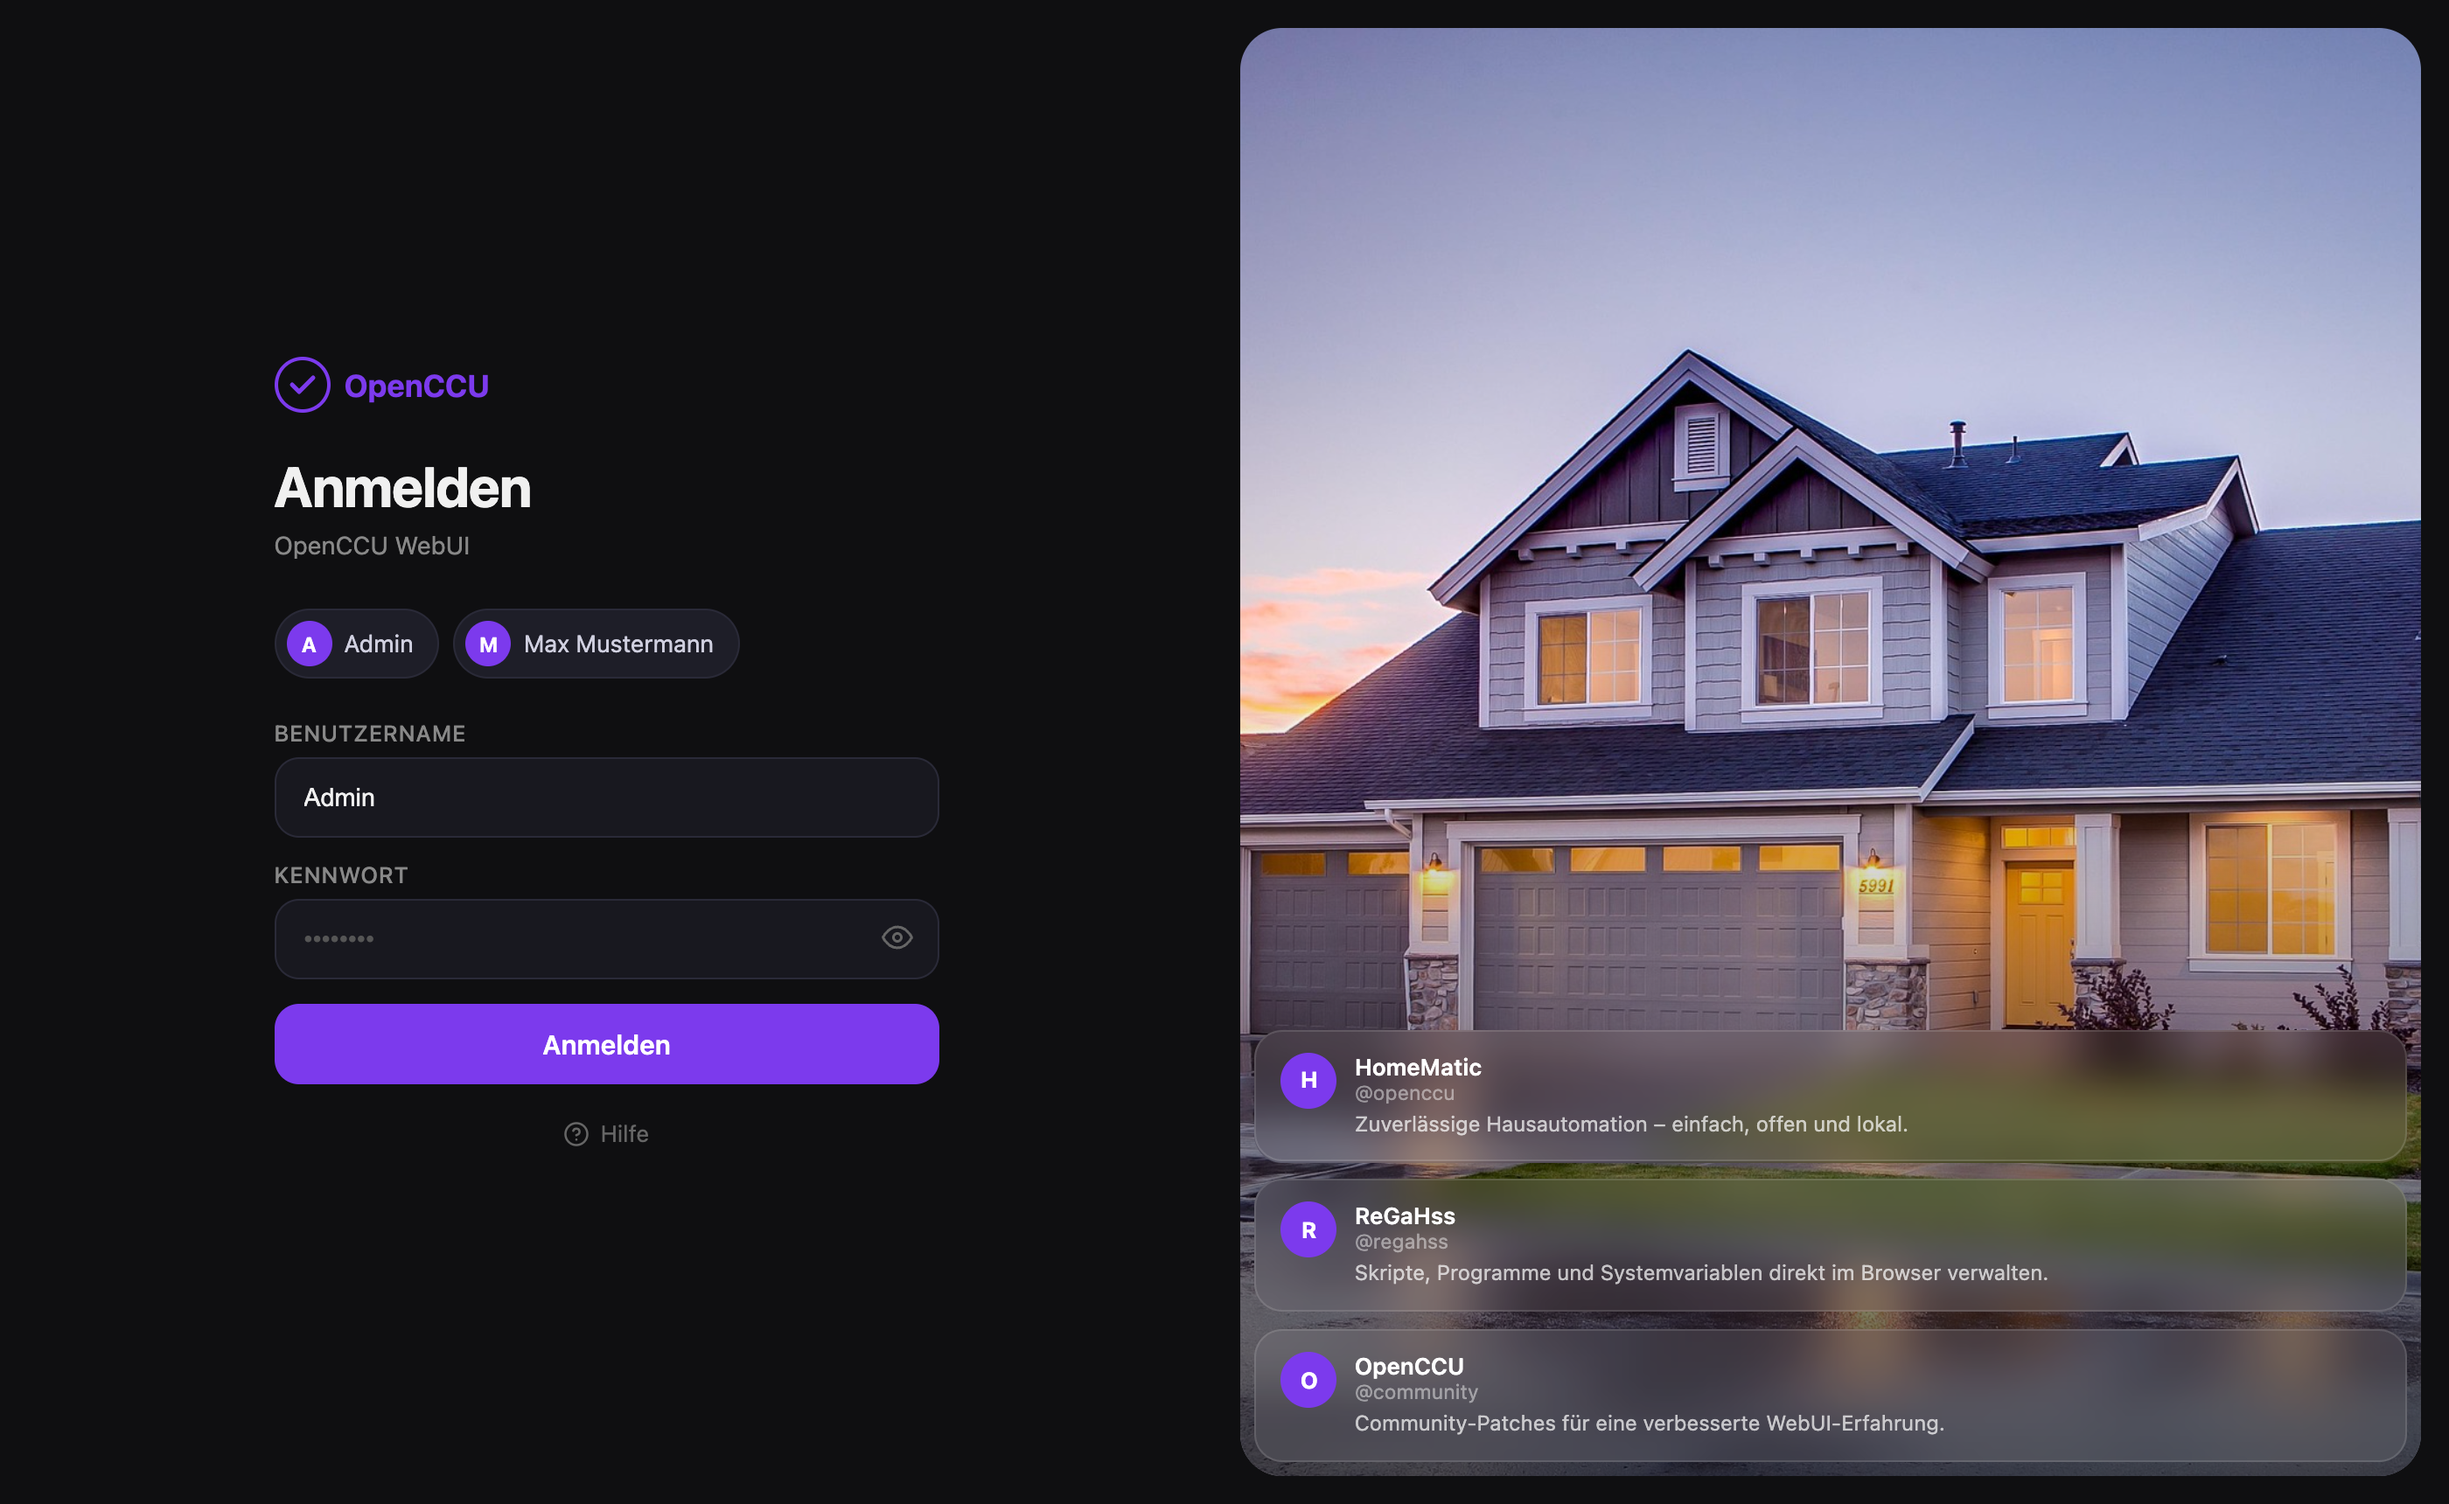
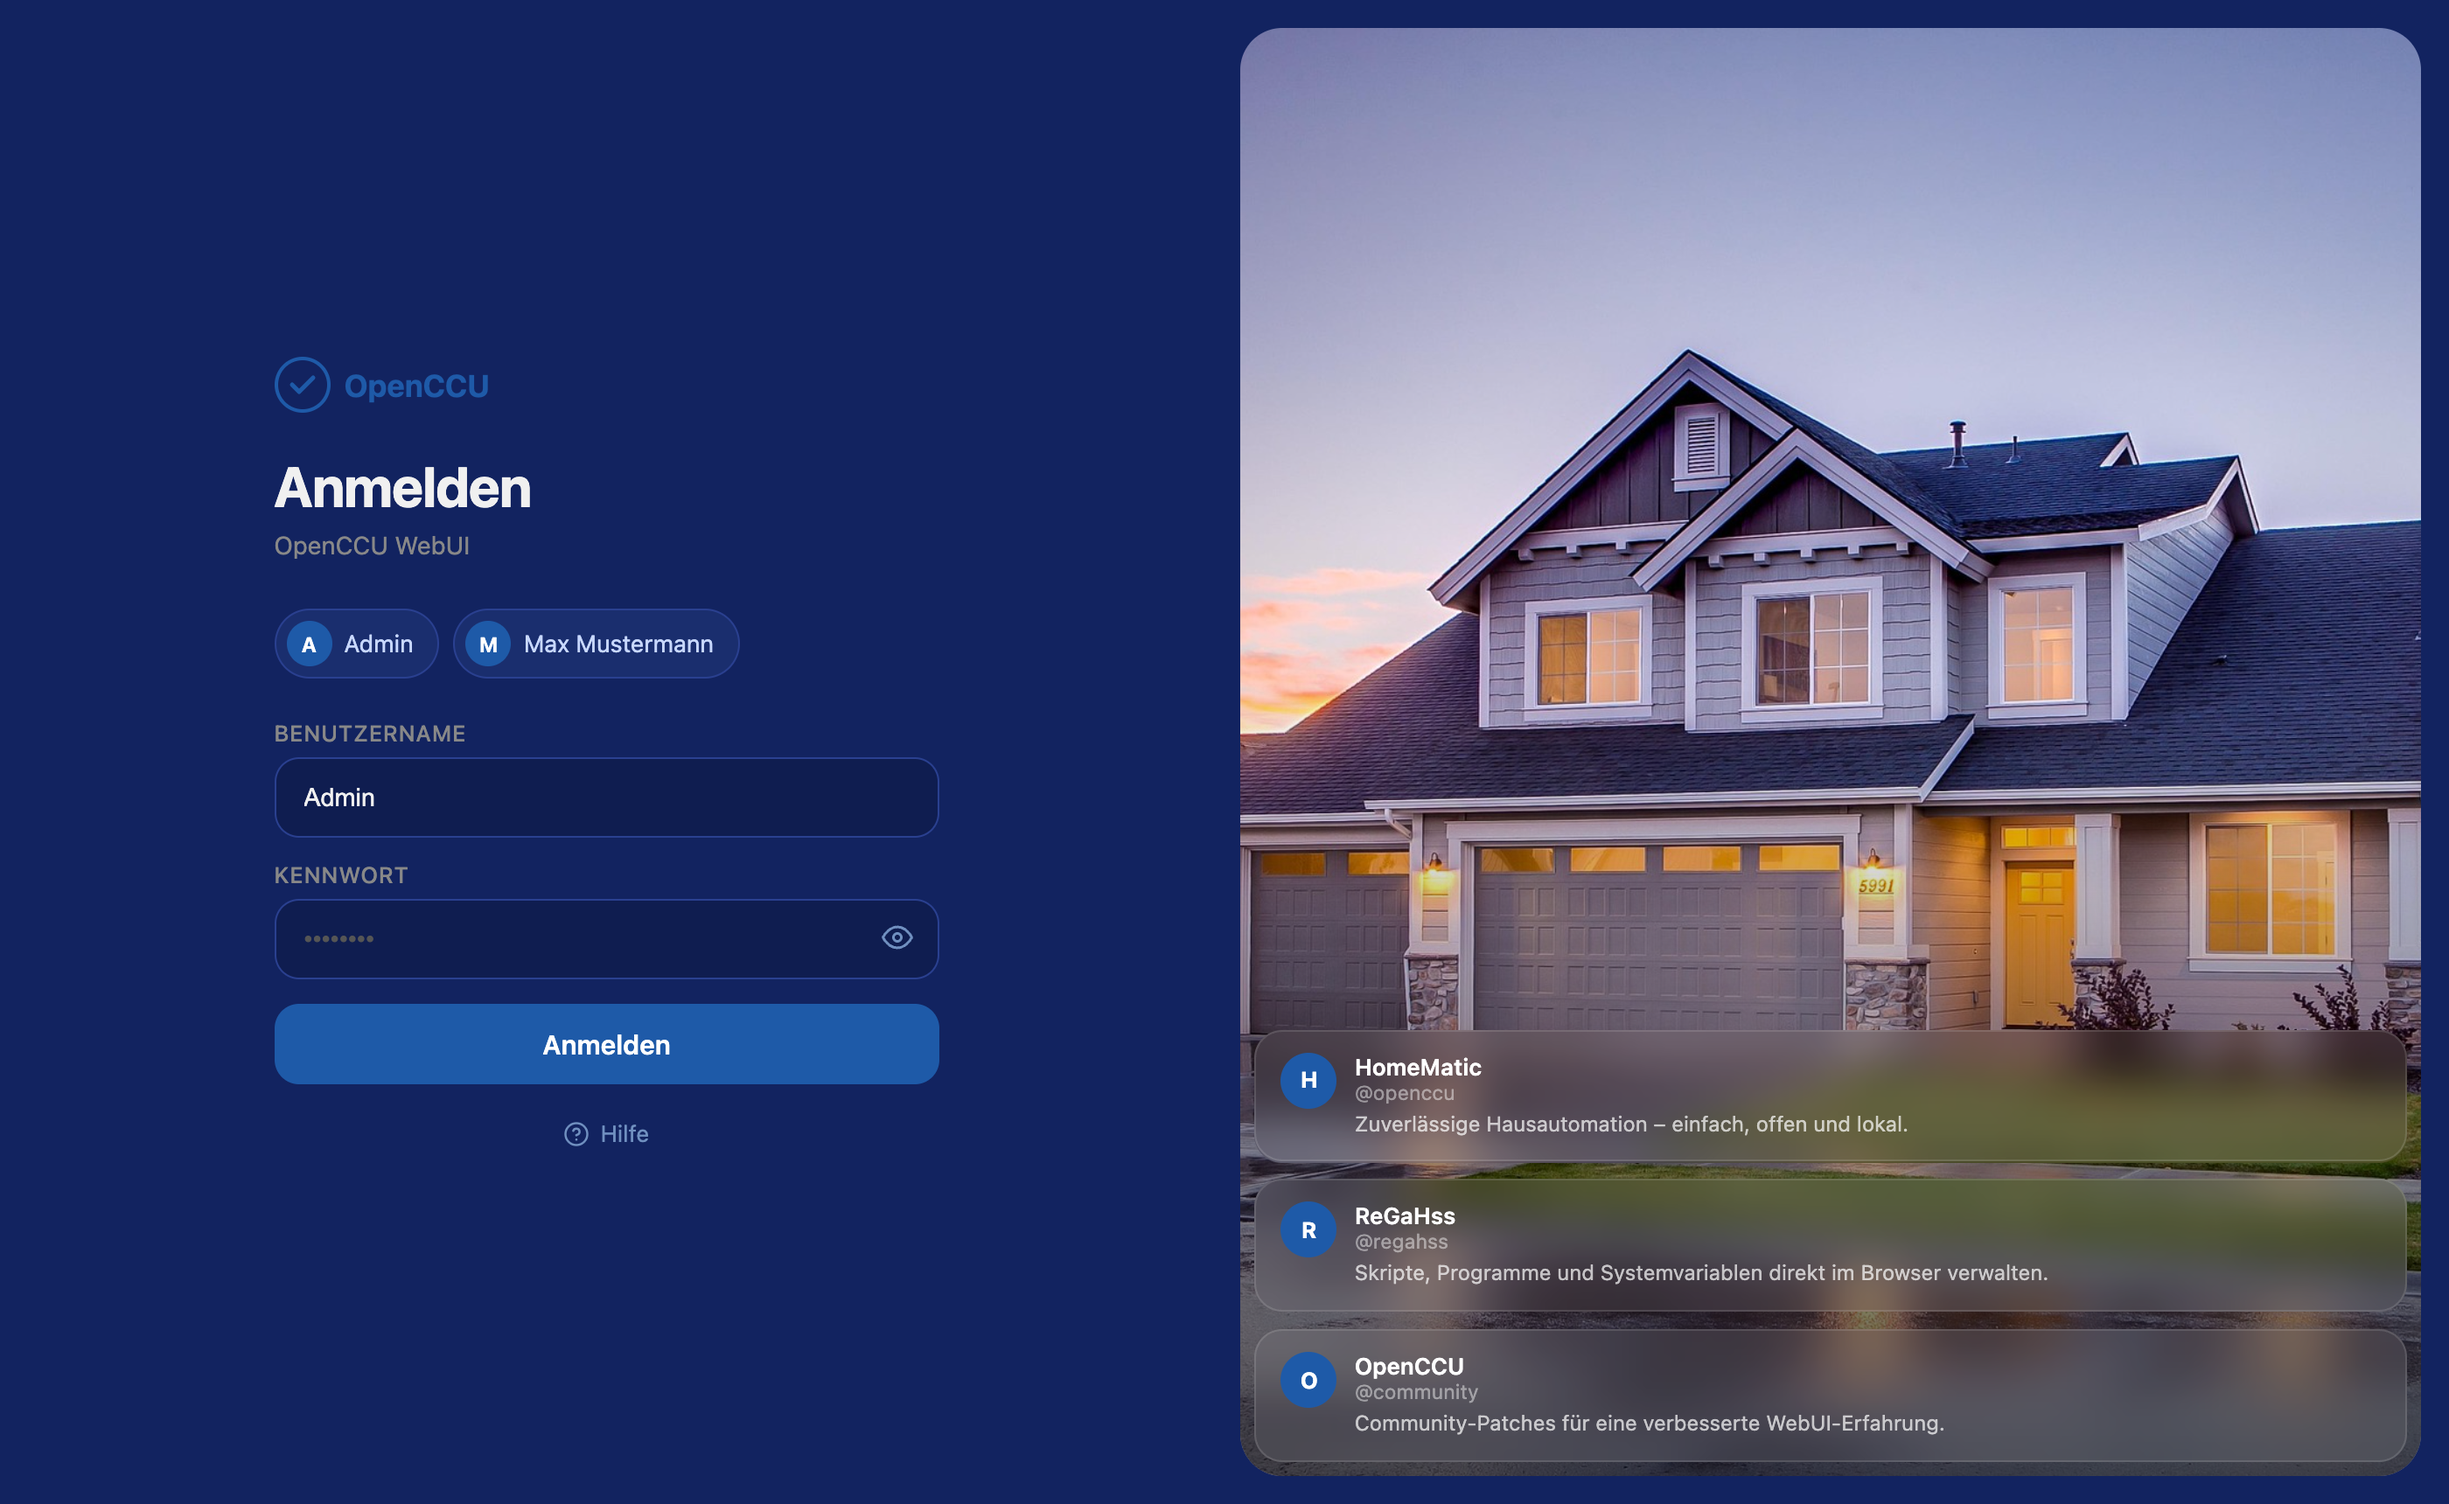
WebUI: Final round of PR review fixes for ModernLoginPage
- Adapt color scheme to match WebUI blue (#183473 family) instead of violet
- Fix duplicate-property CSS lint: move dvh/dvw into @supports block
- Full HTML escaping for user names (& < > " ') in pill generation
- Replace help <span> with <button type=button> for keyboard a11y
- translateAttribute calls for placeholder (#UserNameShow) and aria-label (.pw-toggle)
- UserButtonClick now sets both UserNameShow and hidden UserName (real username)
- FormSubmit preserves UserName set by pill click instead of overwriting
- Screenshots updated to reflect final blue color scheme

diff --git a/buildroot-external/patches/occu/0207-WebUI-ModernLoginPage/occu/WebUI/www/rega/login.css b/buildroot-external/patches/occu/0207-WebUI-ModernLoginPage/occu/WebUI/www/rega/login.css
@@ -4,7 +4,7 @@
 html, body {
   height: 100%;
   font-family: -apple-system, BlinkMacSystemFont, 'Segoe UI', Roboto, Helvetica, Arial, sans-serif;
-  background: #0f0f11;
+  background: #122360;
   color: #f0f0f0;
 }
 
@@ -14,9 +14,15 @@ html, body {
   flex-direction: row;
   height: 100vh;
   width: 100vw;
-  height: 100dvh;
-  width: 100dvw;
   overflow: hidden;
+}
+
+/* Moderne Viewport-Einheiten als Progressive Enhancement */
+@supports (height: 100dvh) {
+  #maintable {
+    height: 100dvh;
+    width: 100dvw;
+  }
 }
 
 /* ── Left panel (form) ──────────────────────────────────── */
@@ -24,9 +30,10 @@ html, body {
   flex: 1 1 0;
   display: flex;
   flex-direction: column;
-  align-items: center;
   justify-content: center;
-  padding: 40px 32px;
+  align-items: center;
+  padding: 48px 40px;
+  background: #122360;
   overflow-y: auto;
   min-width: 0;
 }
@@ -76,36 +83,35 @@ html, body {
 .user-pill {
   display: inline-flex;
   align-items: center;
-  gap: 6px;
-  padding: 6px 14px;
+  gap: 7px;
+  padding: 6px 14px 6px 6px;
   border-radius: 999px;
-  border: 1px solid rgba(255,255,255,0.12);
-  background: rgba(255,255,255,0.05);
-  color: #d0d0d0;
-  font-size: 0.82rem;
-  font-weight: 500;
+  background: #1a2e6e;
+  border: 1px solid #2a4090;
+  color: #c8d8ff;
+  font-size: 0.85rem;
   cursor: pointer;
-  transition: background 0.15s, border-color 0.15s, color 0.15s;
-  white-space: nowrap;
+  transition: background 0.15s, border-color 0.15s;
+  font-family: inherit;
 }
 
 .user-pill:hover {
-  background: rgba(139,92,246,0.18);
-  border-color: rgba(139,92,246,0.5);
+  background: #1e3880;
+  border-color: #4a90d9;
   color: #fff;
 }
 
 .user-pill-avatar {
-  width: 22px;
-  height: 22px;
+  width: 26px;
+  height: 26px;
   border-radius: 50%;
-  background: linear-gradient(135deg, #7c3aed, #4f46e5);
+  background: #1e5aa8;
+  color: #fff;
+  font-size: 0.75rem;
+  font-weight: 700;
   display: flex;
   align-items: center;
   justify-content: center;
-  font-size: 0.65rem;
-  font-weight: 700;
-  color: #fff;
   flex-shrink: 0;
 }
 
@@ -121,16 +127,15 @@ html, body {
 
 /* Glass input wrapper */
 .glass-input {
+  background: #0f1d50;
+  border: 1px solid #2a4090;
   border-radius: 14px;
-  border: 1px solid rgba(255,255,255,0.1);
-  background: rgba(255,255,255,0.04);
-  transition: border-color 0.2s, background 0.2s;
-  position: relative;
+  transition: border-color 0.18s;
 }
 
 .glass-input:focus-within {
-  border-color: rgba(139,92,246,0.6);
-  background: rgba(139,92,246,0.07);
+  border-color: #4a90d9;
+  box-shadow: 0 0 0 3px rgba(74,144,217,0.22);
 }
 
 .glass-input input {
@@ -170,7 +175,7 @@ html, body {
   flex-shrink: 0;
 }
 
-.pw-toggle:hover { color: #bbb; }
+.pw-toggle:hover { color: #4a90d9; }
 
 .pw-toggle svg { display: block; width: 18px; height: 18px; }
 
@@ -192,7 +197,7 @@ html, body {
   width: 100%;
   padding: 14px;
   border-radius: 14px;
-  background: #7c3aed;
+  background: #1e5aa8;
   color: #fff;
   font-size: 0.95rem;
   font-weight: 600;
@@ -205,8 +210,8 @@ html, body {
   user-select: none;
 }
 
-#btnLogin:hover { background: #6d28d9; }
-#btnLogin:active { background: #5b21b6; transform: scale(0.98); }
+#btnLogin:hover { background: #2468c0; }
+#btnLogin:active { background: #183473; transform: scale(0.98); }
 
 /* Help link */
 .help-row {
@@ -218,14 +223,18 @@ html, body {
   display: inline-flex;
   align-items: center;
   gap: 6px;
-  font-size: 0.8rem;
-  color: #555;
+  font-size: 0.82rem;
+  color: #7090c0;
   cursor: pointer;
   transition: color 0.15s;
+  background: none;
+  border: none;
+  font-family: inherit;
+  padding: 0;
   text-decoration: none;
 }
 
-.help-link:hover { color: #bbb; }
+.help-link:hover { color: #4a90d9; }
 
 .help-link svg { width: 15px; height: 15px; }
 
@@ -281,16 +290,16 @@ html, body {
 }
 
 .testimonial-avatar {
-  width: 36px;
-  height: 36px;
-  border-radius: 10px;
-  background: linear-gradient(135deg, #7c3aed, #4f46e5);
+  width: 32px;
+  height: 32px;
+  border-radius: 50%;
+  background: #1e5aa8;
+  color: #fff;
+  font-size: 0.8rem;
+  font-weight: 700;
   display: flex;
   align-items: center;
   justify-content: center;
-  font-size: 0.8rem;
-  font-weight: 700;
-  color: #fff;
   flex-shrink: 0;
 }
 

diff --git a/buildroot-external/patches/occu/0207-WebUI-ModernLoginPage/occu/WebUI/www/rega/login.htm b/buildroot-external/patches/occu/0207-WebUI-ModernLoginPage/occu/WebUI/www/rega/login.htm
@@ -53,9 +53,12 @@
                     string sUserFullName = uObj.UserFirstName()#' '#uObj.UserLastName();
                     if( sUserFullName == ' ' ){ sUserFullName = uObj.Name(); }
                     string sInitial = sUserFullName.Substr(0,1);
-                    Write('<button type="button" class="user-pill" data-fullname="'#sUserFullName.Replace('"','&quot;')#'" data-username="'#uObj.Name().Replace('"','&quot;')#'">');  
-                    Write('<span class="user-pill-avatar">'#sInitial#'</span>');
-                    Write(sUserFullName);
+                    string sFullNameHtml = sUserFullName.Replace('&','&amp;').Replace('<','&lt;').Replace('>','&gt;').Replace('"','&quot;').Replace("'",'&#39;');
+                    string sUsernameHtml = uObj.Name().Replace('&','&amp;').Replace('<','&lt;').Replace('>','&gt;').Replace('"','&quot;').Replace("'",'&#39;');
+                    string sInitialHtml = sInitial.Replace('&','&amp;').Replace('<','&lt;').Replace('>','&gt;');
+                    Write('<button type="button" class="user-pill" data-fullname="'#sFullNameHtml#'" data-username="'#sUsernameHtml#'">');
+                    Write('<span class="user-pill-avatar">'#sInitialHtml#'</span>');
+                    Write(sFullNameHtml);
                     Write('</button>');
                   }
                 }
@@ -105,10 +108,10 @@
 
           <!-- Hilfe-Link -->
           <div class="help-row">
-            <span class="help-link" onclick="loadHelp()">
+            <button type="button" class="help-link" onclick="loadHelp()" aria-label="${lblHelp}">
               <svg id="idHelp" viewBox="0 0 24 24" fill="none" stroke="currentColor" stroke-width="2" stroke-linecap="round" stroke-linejoin="round"><circle cx="12" cy="12" r="10"/><path d="M9.09 9a3 3 0 015.83 1c0 2-3 3-3 3"/><line x1="12" y1="17" x2="12.01" y2="17"/></svg>
               ${lblHelp}
-            </span>
+            </button>
           </div>
 
         </div>
@@ -160,6 +163,8 @@
 
       translatePage("#maintable");
       translateAttribute("#idHelp", "title", "tooltipHelp");
+      translateAttribute("#UserNameShow", "placeholder", "lblEnterUserName");
+      translateAttribute(".pw-toggle", "aria-label", "lblShowPassword");
     </script>
   </body>
 </html>

diff --git a/buildroot-external/patches/occu/0207-WebUI-ModernLoginPage/occu/WebUI/www/rega/login.js b/buildroot-external/patches/occu/0207-WebUI-ModernLoginPage/occu/WebUI/www/rega/login.js
@@ -1,14 +1,17 @@
 UserButtonClick = function(fullName, name)
 {
   $("UserNameShow").value = fullName;
+  $("UserName").value = name;
   $("Password").value = "";
   $("Password").focus();
 }
 
 FormSubmit = function ()
 {
-  var tmp = $("UserNameShow").value;
-  $("UserName").value = tmp.replace(' ','');
+  if ($("UserName").value === "") {
+    var tmp = $("UserNameShow").value;
+    $("UserName").value = tmp.replace(' ','');
+  }
   document.getElementById( 'gwlogin' ).submit();
 }
 
